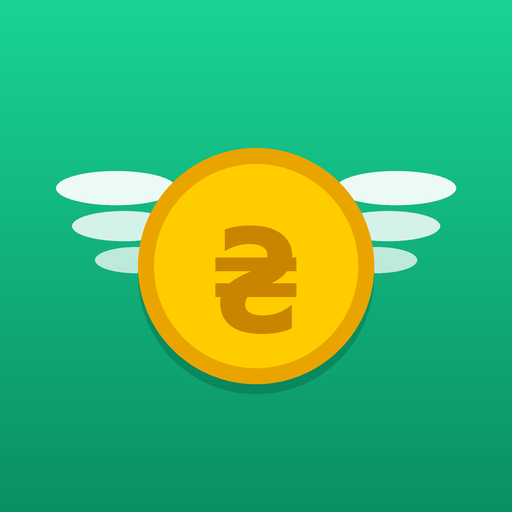
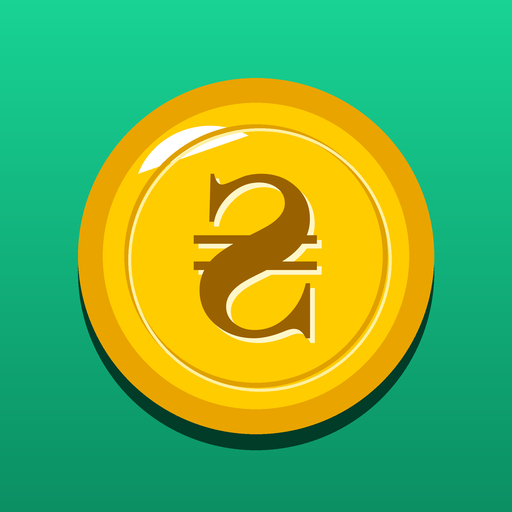
0.2.15: нова іконка — монета з карбованою ₴; вибір іконки монети згорнуто в один рядок
Іконка: велика золота монета з внутрішнім обідком і вдавленою ₴ (Times Bold), без крилець.
Зміна монети: пошук і групи іконок — під рядком «[іконка] Іконка · змінити», щоб «Зберегти» було видно одразу.

diff --git a/js/app.js b/js/app.js
@@ -1513,8 +1513,10 @@ const searchKey = (s) => s.toLocaleLowerCase('uk').replace(/[’ʼ`]/g, "'").tri
 /** Іконки групами з підзаголовками (гроші, продукти, дім…), зверху — пошук за назвою; як у Хобі-плані. */
 function iconPicker(d) {
   const buttons = [];
+  const current = h('span', { class: 'icon-pick-now' });
   const paint = () => {
     for (const b of buttons) b.setAttribute('aria-pressed', String(b.dataset.v === d.icon));
+    current.replaceChildren(icon(hasIcon(d.icon) ? d.icon : 'coins'));
   };
   const groups = M.ICON_GROUPS.map((g) => {
     const row = h('div', { class: 'icon-row', role: 'group', 'aria-label': g.title });
@@ -1559,7 +1561,10 @@ function iconPicker(d) {
     onInput: (e) => filter(searchKey(e.target.value)),
   });
   paint();
-  return h('div', { class: 'icon-picker' }, search, h('div', { class: 'icon-groups' }, empty, groups));
+  // Увесь вибір — одним рядком, що розгортається: інакше до «Зберегти» довго гортати
+  return h('details', { class: 'icon-pick-all' },
+    h('summary', {}, current, h('span', {}, 'Іконка'), h('span', { class: 'muted small' }, 'змінити')),
+    h('div', { class: 'icon-picker' }, search, h('div', { class: 'icon-groups' }, empty, groups)));
 }
 
 function editCoin(orig, kind = orig?.kind) {
@@ -1625,7 +1630,7 @@ function editCoin(orig, kind = orig?.kind) {
     ] : null,
     kind !== 'account' && !debt ? [h('label', { class: 'flabel' }, budgetLabel), budget] : null,
     holds ? [h('label', { class: 'flabel' }, startLabel), start] : null,
-    h('p', { class: 'flabel' }, 'Іконка'), grid,
+    grid,
     h('div', { class: 'btn-grid' },
       h('button', { type: 'button', class: 'btn primary', onClick: store }, icon('check'), 'Зберегти'),
       orig ? h('button', { type: 'button', class: 'btn danger', onClick: remove }, icon('trash'), used ? 'Сховати' : 'Видалити') : null)));

diff --git a/css/app.css b/css/app.css
@@ -658,3 +658,14 @@ details.icon-group > .icon-row { padding-bottom: 10px; }
 .hidden-name { display: flex; flex-direction: column; flex: 1; min-width: 0; }
 .hidden-name b { overflow: hidden; text-overflow: ellipsis; white-space: nowrap; }
 .hidden-row .btn { flex: none; width: auto; padding-inline: 12px; }
+
+/* Вибір іконки згорнуто в один рядок: «[іконка] Іконка · змінити» */
+.icon-pick-all { border: 1px solid var(--line); border-radius: 12px; }
+.icon-pick-all > summary { display: flex; align-items: center; gap: 10px; padding: 8px 12px; cursor: pointer; list-style: none; }
+.icon-pick-all > summary::-webkit-details-marker { display: none; }
+.icon-pick-all > summary::after { content: '›'; margin-left: 4px; font-size: 20px; line-height: 1; transition: rotate .15s; }
+.icon-pick-all[open] > summary::after { rotate: 90deg; }
+.icon-pick-all > summary .muted { margin-left: auto; }
+.icon-pick-now { display: grid; place-items: center; width: 36px; height: 36px; border-radius: 50%; background: var(--surface-2); }
+.icon-pick-now svg { width: 22px; height: 22px; }
+.icon-pick-all > .icon-picker { padding: 0 10px 10px; }

diff --git a/js/changes.js b/js/changes.js
@@ -2,6 +2,13 @@
 // Новий реліз — запис згори; v — як APP_VERSION у version.js.
 export const CHANGES = [
   {
+    v: '0.2.15',
+    items: [
+      'Нова іконка застосунку: велика золота монета з карбованою ₴. На телефоні оновиться, якщо перевстановити ярлик.',
+      'Зміна монети: вибір іконки згорнуто в один рядок «Іконка · змінити» — до «Зберегти» більше не треба довго гортати.',
+    ],
+  },
+  {
     v: '0.2.14',
     items: ['Налаштування → «Сховані монети»: усі сховані монети зі списком операцій і залишком. Сховав помилково — «Повернути»; не потрібна — ✕ видаляє монету разом з її операціями.'],
   },

diff --git a/version.js b/version.js
@@ -1,5 +1,5 @@
 // Підняти при кожному релізі: від цього залежить оновлення кешу service worker.
-self.APP_VERSION = '0.2.14';
+self.APP_VERSION = '0.2.15';
 // Номер складання міняється з кожним оновленням, навіть без зміни версії,
 // інакше service worker вважає файли тими самими й не пропонує оновитись.
-self.APP_BUILD = '2026-10-23-27';
+self.APP_BUILD = '2026-10-23-28';

diff --git a/scripts/make_icons.py b/scripts/make_icons.py
@@ -1,4 +1,4 @@
-"""Іконки застосунку: золота монета з ₴ і крильцями («гроші полетіли») на зеленому — PNG для маніфесту й iOS.
+"""Іконки застосунку: велика золота монета з карбованим ₴ (Times, вдавлений) на зеленому — PNG для маніфесту й iOS.
 
 MASK — масштаб для maskable: малюнок дрібніший, щоб лишався в безпечному колі Android (r = 40%).
 Запуск: py scripts/make_icons.py
@@ -10,48 +10,47 @@ from PIL import Image, ImageDraw, ImageFont
 SS = 4  # малюємо вчетверо більшим і зменшуємо — згладжені краї
 MASK = 0.8
 ICONS = Path(__file__).resolve().parent.parent / 'icons'
-FONT = 'C:/Windows/Fonts/segoeuib.ttf'
+FONT = 'C:/Windows/Fonts/timesbd.ttf'
 
 
-def hex_rgb(h):
-    return tuple(int(h[i:i + 2], 16) for i in (1, 3, 5))
-
-
-def wing(d, cx, cy, s, side):
-    """Крило з трьох пір'їн: еліпси, що розходяться віялом від монети."""
-    for i, (dx, dy, w, hh) in enumerate([(70, -38, 120, 34), (62, 0, 104, 30), (50, 34, 82, 26)]):
-        x = cx + side * dx * s
-        y = cy + dy * s
-        d.ellipse([x - w * s / 2, y - hh * s / 2, x + w * s / 2, y + hh * s / 2], fill=(255, 255, 255, 235 - i * 25))
+def rgb(h, a=255):
+    return tuple(int(h[i:i + 2], 16) for i in (1, 3, 5)) + (a,)
 
 
 def render(size, k):
     n = 512 * SS
-    top, bottom = hex_rgb('#18d394'), hex_rgb('#0b8f63')
-    bg = Image.new('RGB', (n, n))
-    px = ImageDraw.Draw(bg)
+    top, bottom = rgb('#18d394'), rgb('#0b8f63')
+    img = Image.new('RGBA', (n, n))
+    px = ImageDraw.Draw(img)
     for y in range(n):
         t = y / (n - 1)
-        px.line([(0, y), (n, y)], fill=tuple(round(top[c] + (bottom[c] - top[c]) * t) for c in range(3)))
+        px.line([(0, y), (n, y)], fill=tuple(round(top[c] + (bottom[c] - top[c]) * t) for c in range(4)))
 
-    over = Image.new('RGBA', (n, n), (0, 0, 0, 0))
-    d = ImageDraw.Draw(over)
+    d = ImageDraw.Draw(img)
     s = SS * k
-    c = 256 * SS
-    cy = c + 10 * s
-    wing(d, c - 70 * s, cy - 40 * s, s, -1)
-    wing(d, c + 70 * s, cy - 40 * s, s, 1)
-    # монета: тінь, обідок, поле
-    r = 118 * s
-    d.ellipse([c - r, cy - r + 10 * s, c + r, cy + r + 10 * s], fill=(0, 70, 45, 70))
-    d.ellipse([c - r, cy - r, c + r, cy + r], fill=hex_rgb('#e9a400') + (255,))
-    r2 = r - 16 * s
-    d.ellipse([c - r2, cy - r2, c + r2, cy + r2], fill=hex_rgb('#ffcc00') + (255,))
-    font = ImageFont.truetype(FONT, round(150 * s))
-    d.text((c, cy + 4 * s), '₴', font=font, fill=hex_rgb('#c98500') + (255,), anchor='mm')
+    c = n // 2
+    # монета: тінь, обідок, поле, блік
+    r = 178 * s
+    d.ellipse([c - r, c - r + 16 * s, c + r, c + r + 16 * s], fill=(0, 60, 40, 80))
+    d.ellipse([c - r, c - r, c + r, c + r], fill=rgb('#e9a400'))
+    r2 = r * .86
+    d.ellipse([c - r2, c - r2, c + r2, c + r2], fill=rgb('#ffcc00'))
+    d.chord([c - r2 * .8, c - r2 * .85, c + r2 * .2, c + r2 * .1], 200, 300, fill=(255, 255, 255, 90))
+    # тонкий внутрішній обідок, як на справжній монеті: тінь і світлий відблиск під нею
+    r3 = r * .74
+    d.ellipse([c - r3, c - r3, c + r3, c + r3], outline=rgb('#e0a000'), width=round(5 * s))
+    d.ellipse([c - r3 + 4 * s, c - r3 + 4 * s, c + r3 + 4 * s, c + r3 + 4 * s], outline=rgb('#fff0a0', 160), width=round(3 * s))
+    # ₴ вдавлений у метал: світлий край унизу-праворуч, тіло — тінь; по центру за габаритом знака
+    font = ImageFont.truetype(FONT, round(238 * s))
+    mask = Image.new('L', (n, n), 0)
+    md = ImageDraw.Draw(mask)
+    x0, y0, x1, y1 = md.textbbox((0, 0), '₴', font=font)
+    md.text((c - (x0 + x1) / 2, c - (y0 + y1) / 2), '₴', font=font, fill=255)
+    off = round(7 * s * 2 / 3)
+    img.paste(rgb('#fff6c8'), (off, off), mask)
+    img.paste(rgb('#9a6100'), (0, 0), mask)
 
-    img = Image.alpha_composite(bg.convert('RGBA'), over).convert('RGB')
-    return img.resize((size, size), Image.LANCZOS)
+    return img.convert('RGB').resize((size, size), Image.LANCZOS)
 
 
 def main():
